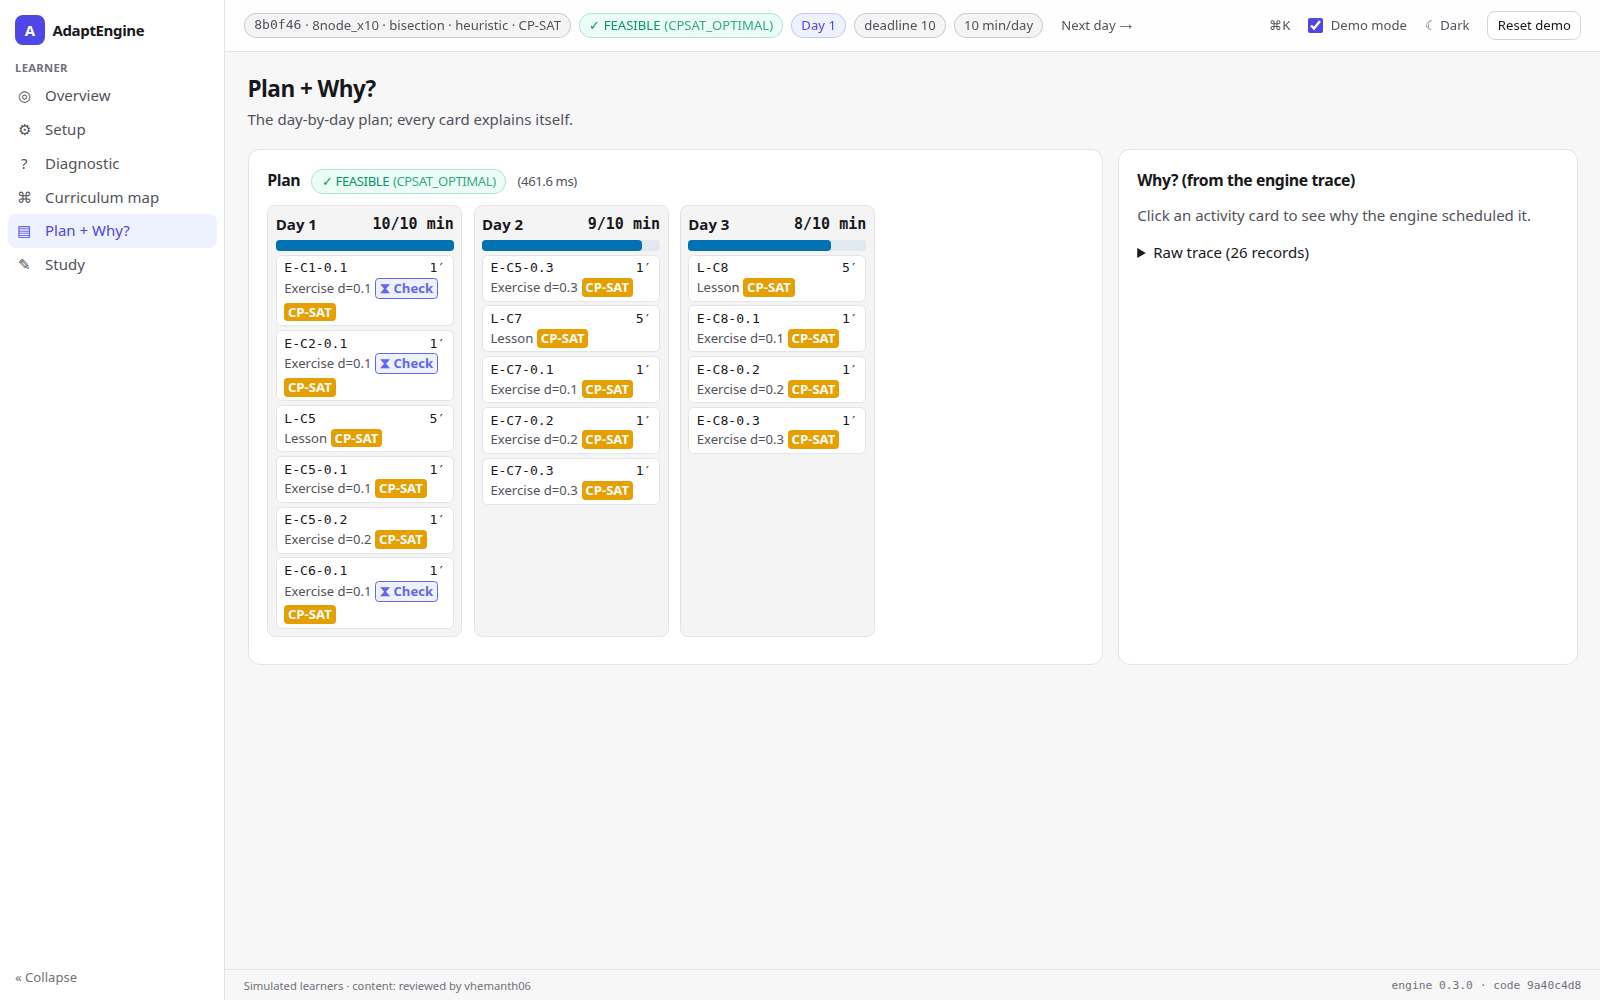
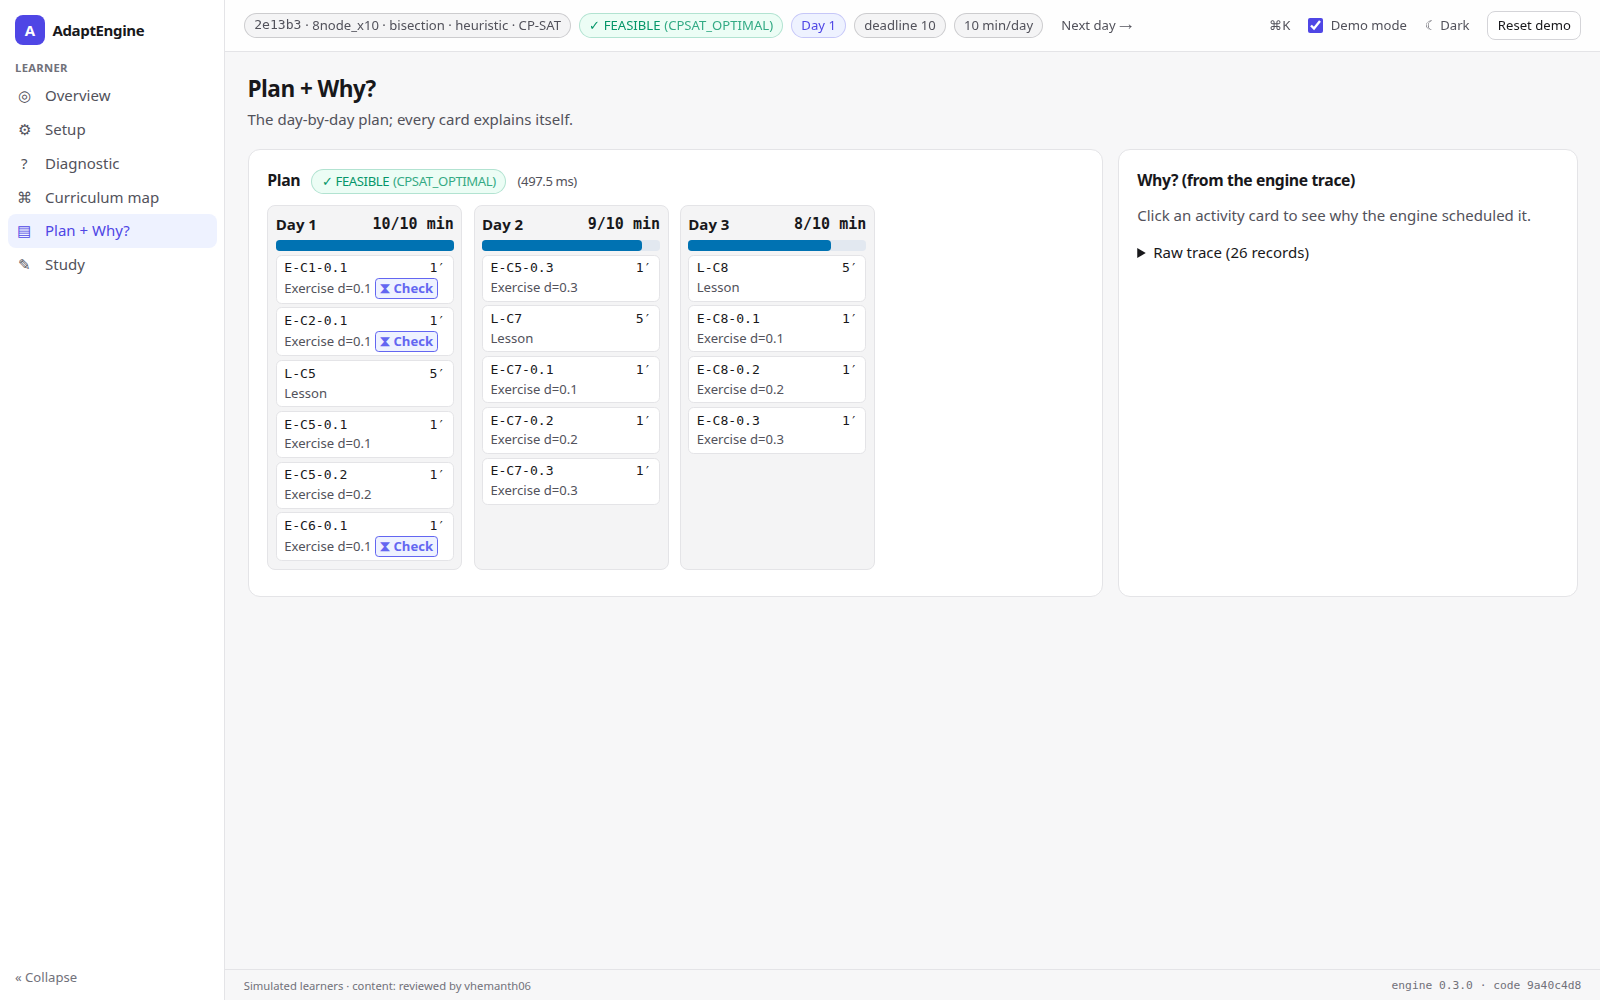
docs: remove CP-SAT tag from plan timeline cards and update documentation and UI figures

diff --git a/frontend/web/src/components/PlanTimeline.tsx b/frontend/web/src/components/PlanTimeline.tsx
@@ -6,7 +6,6 @@ const TAG: Record<string, [string, string]> = {
   REVIEW_DUE: ["Review", C.purple],
   REVIEW_SCHEDULED: ["Review", C.purple],
   ORACLE_ASSIGNED: ["Solver", C.orange],
-  CPSAT_ASSIGNED: ["CP-SAT", C.orange],
 };
 
 export default function PlanTimeline({

diff --git a/docs/FRONTEND_NOTES.md b/docs/FRONTEND_NOTES.md
@@ -281,3 +281,10 @@ At the owner's request, as in the Diagnostic: Study's demo-mode buttons ("Demo l
 (`answer-right`, `answer-wrong`). They show on every exercise, demo mode or not. The old "1 ·
 Right / 2 · Wrong" fallback for curricula without question text is gone: the two buttons and keys
 1 and 2 cover it. The walkthrough's step 5 now picks the button from the preset's known set.
+
+## Plan timeline: no "CP-SAT" tag on every card (2026-11-21)
+
+At the owner's request, the `CPSAT_ASSIGNED` reason no longer gets a tag on the timeline cards.
+With CP-SAT (or hybrid's takeover) every card had one, so it carried no information. The session
+chip already names the planner, and the Why panel still shows CP-SAT's earliest day and placement
+for the clicked card. Remediation, review and greedy's oracle ("Solver") tags are unchanged.
